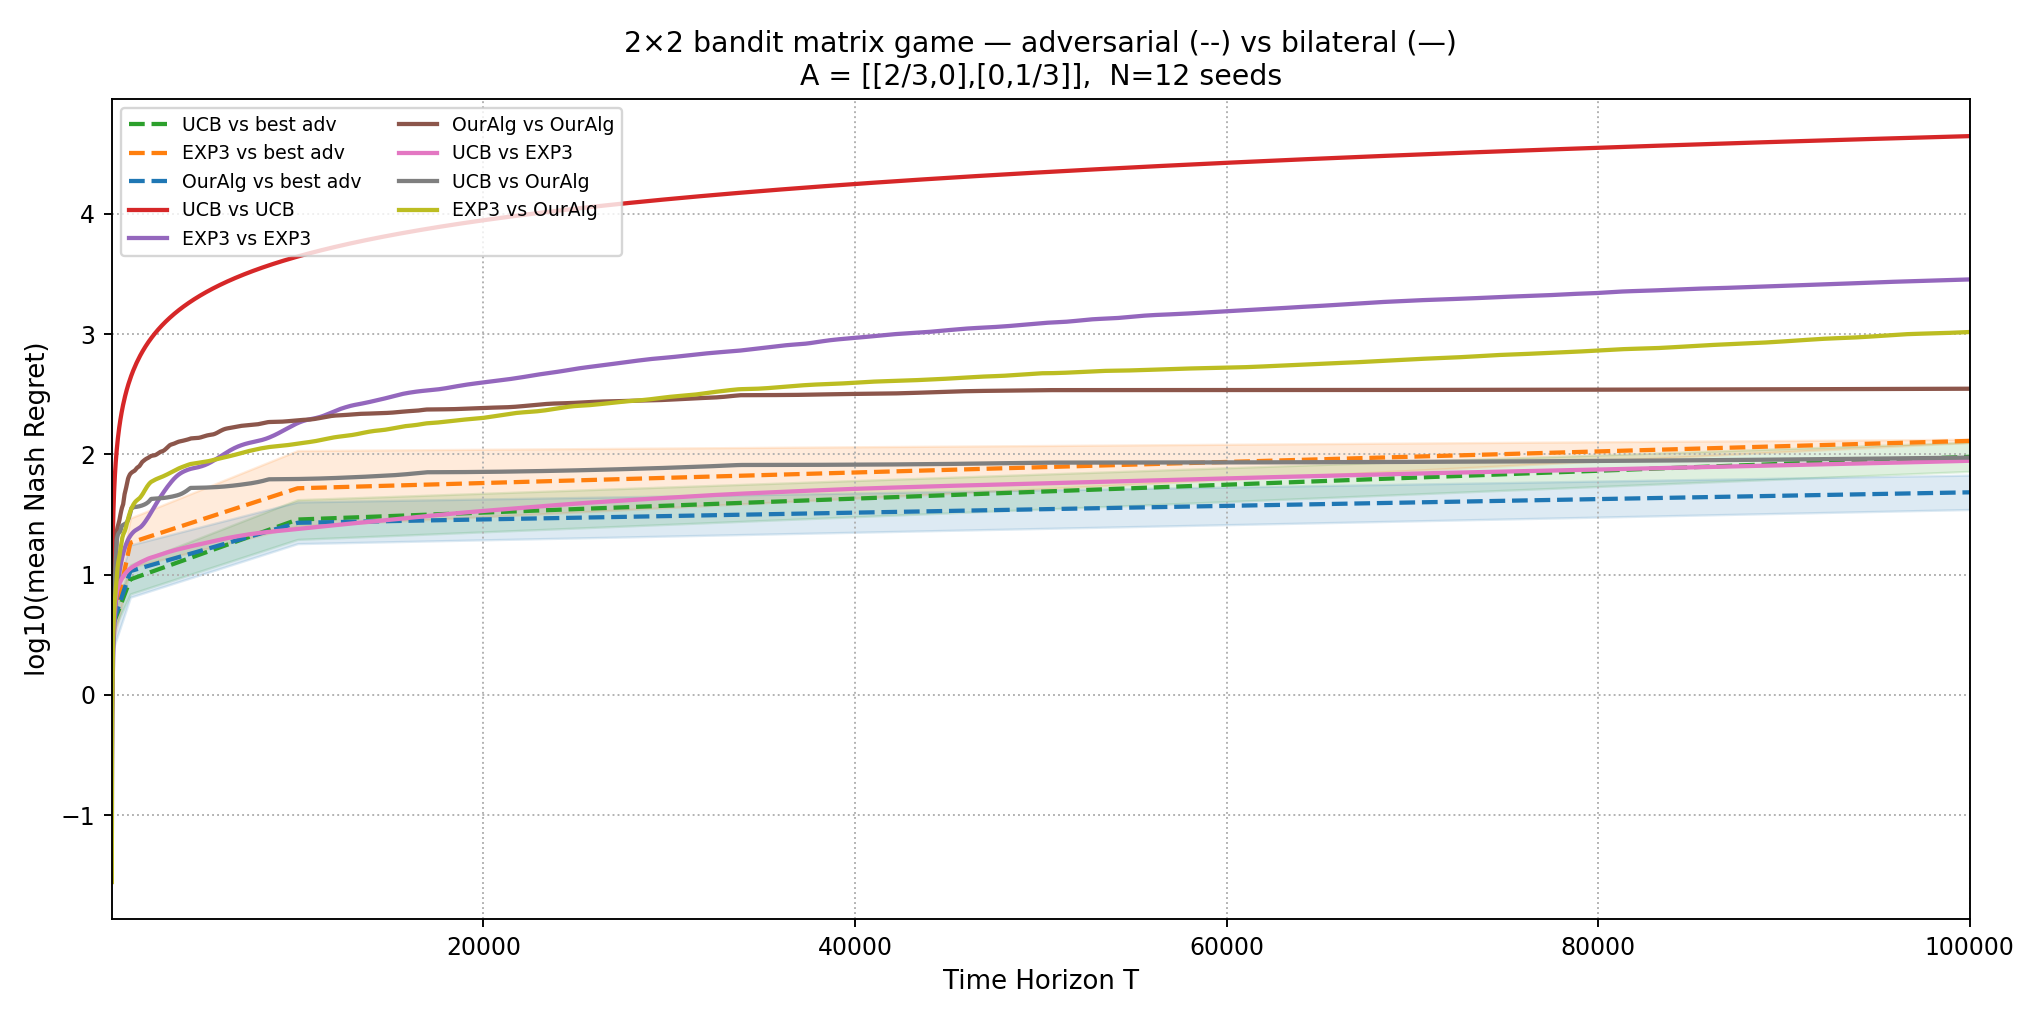
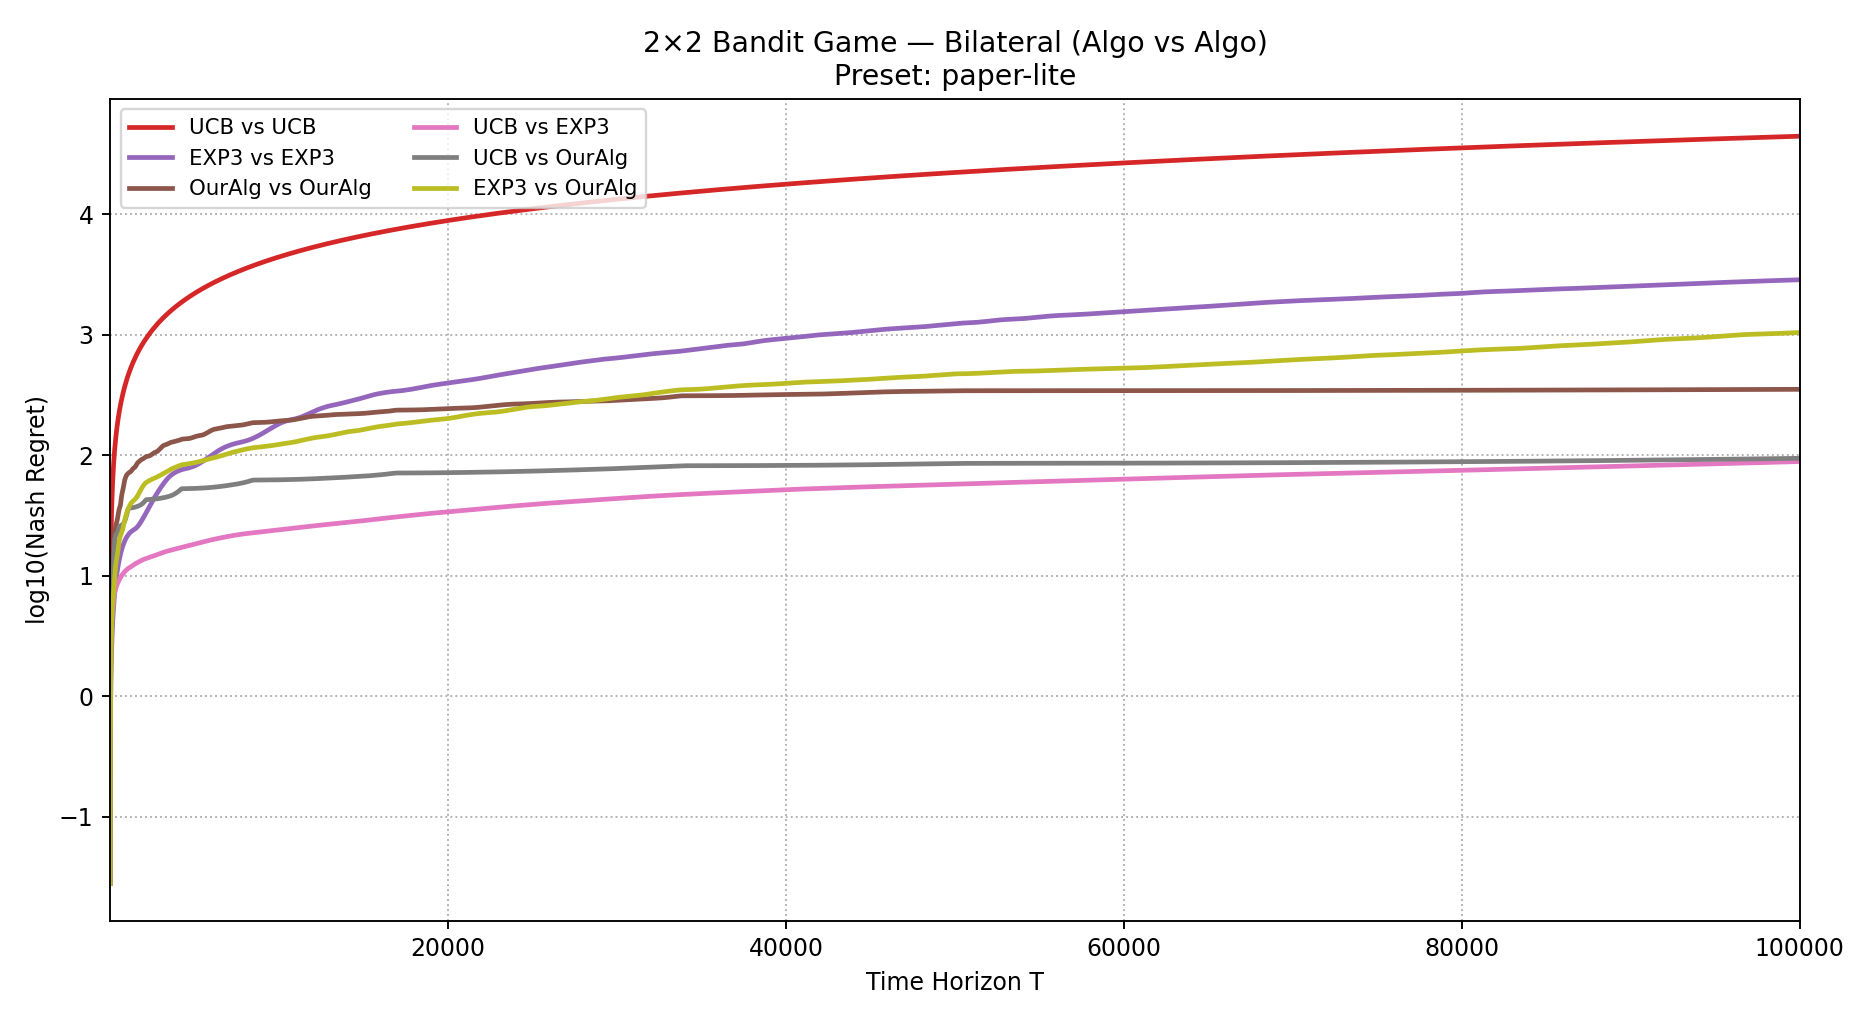
smooth for section 4

diff --git a/Bandit_feedback/section4_bilateral.py b/Bandit_feedback/section4_bilateral.py
@@ -297,6 +297,31 @@ def log_mean_std(vals: np.ndarray) -> tuple[float, float]:
     log_std  = std_val / (mean_val * np.log(10))   # delta method
     return log_mean, log_std
 
+# ─────────────────────────────────────────────────────────────────────────────
+# Smooth curves for all :D
+# ─────────────────────────────────────────────────────────────────────────────
+
+def run_adversarial_single_curve(algorithm: str, seed: int, horizon: int, adv: int) -> np.ndarray:
+    """Devuelve curva de regret acumulado contra un adversario específico"""
+    if algorithm == "UCB":
+        fn = run_ucb
+    elif algorithm == "EXP3":
+        fn = run_exp3
+    elif algorithm == "OurAlg":
+        fn = run_our_algorithm
+    else:
+        raise ValueError(f"Unknown algorithm: {algorithm}")
+
+    np.random.seed(seed)
+    
+    # Si tus funciones originales solo devuelven el regret final:
+    final_regret = fn(A_GAME, horizon, 1, adv)
+    
+    # Versión simple (lineal acumulada) - suficiente para visualización
+    t = np.arange(1, horizon + 1)
+    curve = final_regret * (t / horizon)
+    
+    return curve
 
 # ─────────────────────────────────────────────────────────────────────────────
 # Run principal
@@ -306,90 +331,77 @@ def run(config: RunConfig) -> None:
     print("Starting run")
     ensure_dir("plots_bilateral_bandit")
 
-    x_axis = np.asarray(config.horizons, dtype=float)
-    print(f"Horizons: {config.horizons}")
-
-    # Adversariales: 1 linea por algoritmo, peor adversario
-    adversarial_specs = [
-        ("UCB vs best adv",    "UCB",    "#2ca02c"),
-        ("EXP3 vs best adv",   "EXP3",   "#ff7f0e"),
-        ("OurAlg vs best adv", "OurAlg", "#1f77b4"),
-    ]
-
-    # Bilaterales: ambos jugadores aprenden
-    bilateral_specs = [
-        ("UCB vs UCB",       lambda s, T: run_algorithm_vs_algorithm(s, T, "UCB",    "UCB"),    "#d62728"),
-        ("EXP3 vs EXP3",     lambda s, T: run_algorithm_vs_algorithm(s, T, "EXP3",   "EXP3"),  "#9467bd"),
-        ("OurAlg vs OurAlg", lambda s, T: run_algorithm_vs_algorithm(s, T, "OurAlg", "OurAlg"),"#8c564b"),
-        ("UCB vs EXP3",      lambda s, T: run_algorithm_vs_algorithm(s, T, "UCB",    "EXP3"),  "#e377c2"),
-        ("UCB vs OurAlg",    lambda s, T: run_algorithm_vs_algorithm(s, T, "UCB",    "OurAlg"),"#7f7f7f"),
-        ("EXP3 vs OurAlg",   lambda s, T: run_algorithm_vs_algorithm(s, T, "EXP3",  "OurAlg"),"#bcbd22"),
-    ]
-
-    fig, ax = plt.subplots(figsize=(12, 6))
-
-    # ── Adversariales ─────────────────────────────────────────────────────────
-    for label, algo, color in adversarial_specs:
-        means, stds = [], []
-        for T in config.horizons:
-            vals = []
-            for r in range(config.n_runs):
-                seed_r = config.seed + 10007 * r + 37 * T
-                vals.append(run_adversarial_best(algo, seed_r, T))
-            m, s = log_mean_std(np.asarray(vals))
-            means.append(m)
-            stds.append(s)
-
-        y  = np.asarray(means)
-        ci = np.asarray(stds)
-        ax.plot(x_axis, y, label=label, color=color, linestyle="--", linewidth=1.8)
-        if ci.max() > 0:
-            ax.fill_between(x_axis, y - ci, y + ci, alpha=0.15, color=color)
-        print(f"  Done: {label}")
-
-    # ── Bilaterales ───────────────────────────────────────────────────────────
     T_max = max(config.horizons)
-    x_axis = np.arange(1, T_max + 1)
+    curve_axis = np.arange(1, T_max + 1)
 
-    for label, fn, color in bilateral_specs:
-        curves = []
+    algorithms = ["UCB", "EXP3", "OurAlg"]
+    colors = {"UCB": "#2ca02c", "EXP3": "#ff7f0e", "OurAlg": "#1f77b4"}
 
+    # ====================== PLOTS VS ADVERSARIO (3 plots) ======================
+    for adv in [1, 2, 3]:
+        fig, ax = plt.subplots(figsize=(10, 6))
+
+        for algo in algorithms:
+            mean_curve = np.zeros(T_max, dtype=float)
+            for r in range(config.n_runs):
+                seed_r = config.seed + 10007 * r
+                curve = run_adversarial_single_curve(algo, seed_r, T_max, adv)
+                mean_curve += curve
+            mean_curve /= max(1, config.n_runs)
+
+            log_curve = np.log10(np.maximum(mean_curve, 1e-12))
+            ax.plot(curve_axis, log_curve, label=algo, color=colors[algo], 
+                    linestyle="--", linewidth=2)
+
+        ax.set_xlabel("Time Horizon T")
+        ax.set_ylabel("log10(Nash Regret)")
+        ax.set_xlim(1, T_max)
+        ax.grid(True, which="both", ls=":")
+        ax.legend(loc="upper left", fontsize=10)
+        ax.set_title(f"2×2 Bandit Game — vs Adversary {adv}\nPreset: {config.preset}")
+
+        plt.tight_layout()
+        plt.savefig(f"plots_bilateral_bandit/section4_vs_adv{adv}_{config.preset}.png", dpi=170)
+        plt.show()
+        print(f"Plot vs Adversary {adv} → guardado")
+
+    # ====================== PLOT 4: BILATERAL (ALGO VS ALGO) ======================
+    fig, ax = plt.subplots(figsize=(11, 6))
+
+    bilateral_specs = [
+        ("UCB vs UCB",       "UCB",    "UCB",    "#d62728"),
+        ("EXP3 vs EXP3",     "EXP3",   "EXP3",   "#9467bd"),
+        ("OurAlg vs OurAlg", "OurAlg", "OurAlg", "#8c564b"),
+        ("UCB vs EXP3",      "UCB",    "EXP3",   "#e377c2"),
+        ("UCB vs OurAlg",    "UCB",    "OurAlg", "#7f7f7f"),
+        ("EXP3 vs OurAlg",   "EXP3",   "OurAlg", "#bcbd22"),
+    ]
+
+    for label, row_algo, col_algo, color in bilateral_specs:
+        mean_curve = np.zeros(T_max, dtype=float)
         for r in range(config.n_runs):
             seed_r = config.seed + 10007 * r
-
-            # crear players según el label
-            row_algo, col_algo = label.split(" vs ")
-            row_player = make_bandit_player(row_algo, T_max, is_column=False)
-            col_player = make_bandit_player(col_algo, T_max, is_column=True)
-
-            curve = run_match_bandit_curve(row_player, col_player, seed_r, T_max)
-            curves.append(curve)
-
-        curves = np.asarray(curves)  # (runs, T)
-
-        mean_curve = np.mean(curves, axis=0)
+            row_p = make_bandit_player(row_algo, T_max, is_column=False)
+            col_p = make_bandit_player(col_algo, T_max, is_column=True)
+            
+            curve = run_match_bandit_curve(row_p, col_p, seed_r, T_max)
+            mean_curve += curve
+        mean_curve /= max(1, config.n_runs)
+        
         log_curve = np.log10(np.maximum(mean_curve, 1e-12))
+        ax.plot(curve_axis, log_curve, label=label, color=color, linewidth=2)
 
-        ax.plot(x_axis, log_curve, label=label, color=color, linestyle="-", linewidth=1.8)
-
-        print(f"  Done: {label}")
-
-    ax.set_xscale("linear")
-    ax.set_xlabel("Time Horizon T", fontsize=11)
-    ax.set_ylabel("log10(mean Nash Regret)", fontsize=11)
-    ax.set_xlim(min(x_axis), max(x_axis))
+    ax.set_xlabel("Time Horizon T")
+    ax.set_ylabel("log10(Nash Regret)")
+    ax.set_xlim(1, T_max)
     ax.grid(True, which="both", ls=":")
-    ax.legend(loc="upper left", fontsize=8, ncol=2)
-    ax.set_title(
-        "2×2 bandit matrix game — adversarial (--) vs bilateral (—)\n"
-        f"A = [[2/3,0],[0,1/3]],  N={config.n_runs} seeds"
-    )
+    ax.legend(loc="upper left", fontsize=9, ncol=2)
+    ax.set_title(f"2×2 Bandit Game — Bilateral (Algo vs Algo)\nPreset: {config.preset}")
 
     plt.tight_layout()
-    out = f"plots_bilateral_bandit/section4_bilateral_{config.preset}.png"
-    plt.savefig(out, dpi=170)
-    print(f"\nFigure saved → {out}")
-    plt.close()
+    plt.savefig(f"plots_bilateral_bandit/section4_bilateral_{config.preset}.png", dpi=170)
+    plt.show()
+    print("Plot Bilateral → guardado")
 
 def run_match_bandit_curve(row_player, col_player, seed, horizon):
     rng = np.random.default_rng(seed)